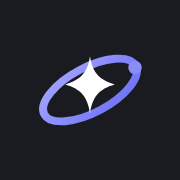
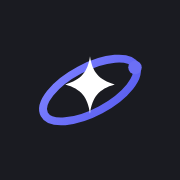
Add files via upload

Changed region(s): [[0.1944, 0.3056, 0.8056, 0.6944]]

diff --git a/index.html b/index.html
@@ -373,7 +373,7 @@ body{background:var(--bg)!important}
 
 <div class="login" id="login" hidden>
   <div class="box">
-    <svg class="logo" viewBox="0 0 128 128" aria-hidden="true"><defs><linearGradient id="lg2" x1="0" y1="0" x2="1" y2="1"><stop offset="0" stop-color="#A3A5FF"/><stop offset="1" stop-color="#6C6FF5"/></linearGradient></defs><rect width="128" height="128" rx="34" fill="#1A1B21"/><ellipse cx="64" cy="64" rx="46" ry="20" fill="none" stroke="url(#lg2)" stroke-width="7" transform="rotate(-28 64 64)"/><path d="M64 34c2 14 8 21 22 25-14 4-20 11-22 26-2-15-8-22-22-26 14-4 20-11 22-25z" fill="#fff"/><circle cx="104" cy="44" r="6" fill="#8A8CF8"/></svg>
+    <svg class="logo" viewBox="0 0 128 128" aria-hidden="true"><defs><linearGradient id="lg2" x1="0" y1="0" x2="1" y2="1"><stop offset="0" stop-color="#7C80FF"/><stop offset="1" stop-color="#5A5EF0"/></linearGradient></defs><rect width="128" height="128" rx="34" fill="#1A1B21"/><ellipse cx="64" cy="64" rx="46" ry="20" fill="none" stroke="url(#lg2)" stroke-width="7" transform="rotate(-28 64 64)"/><path d="M64 34c2 14 8 21 22 25-14 4-20 11-22 26-2-15-8-22-22-26 14-4 20-11 22-25z" fill="#fff"/><circle cx="104" cy="44" r="6" fill="#6C6FF5"/></svg>
     <h1>Nova <span>Resell</span></h1>
     <p style="margin:2px 0 6px"><span style="display:inline-block;background:#16a34a;color:#fff;border-radius:999px;padding:2px 9px;font-size:11px;font-weight:800;letter-spacing:.04em">GRATUIT</span> <small>pour le moment, sans carte bancaire</small></p>
     <p id="loginSub">Connecte-toi avec ton compte Nova : le même que dans l'extension sur ton PC.</p>
@@ -391,7 +391,7 @@ body{background:var(--bg)!important}
 <div class="app">
   <header class="hero">
     <div class="brand">
-      <svg viewBox="0 0 128 128" aria-hidden="true"><defs><linearGradient id="lg" x1="0" y1="0" x2="1" y2="1"><stop offset="0" stop-color="#A3A5FF"/><stop offset="1" stop-color="#6C6FF5"/></linearGradient></defs><rect width="128" height="128" rx="34" fill="#1A1B21"/><ellipse cx="64" cy="64" rx="46" ry="20" fill="none" stroke="url(#lg)" stroke-width="7" transform="rotate(-28 64 64)"/><path d="M64 34c2 14 8 21 22 25-14 4-20 11-22 26-2-15-8-22-22-26 14-4 20-11 22-25z" fill="#fff"/><circle cx="104" cy="44" r="6" fill="#8A8CF8"/></svg>
+      <svg viewBox="0 0 128 128" aria-hidden="true"><defs><linearGradient id="lg" x1="0" y1="0" x2="1" y2="1"><stop offset="0" stop-color="#7C80FF"/><stop offset="1" stop-color="#5A5EF0"/></linearGradient></defs><rect width="128" height="128" rx="34" fill="#1A1B21"/><ellipse cx="64" cy="64" rx="46" ry="20" fill="none" stroke="url(#lg)" stroke-width="7" transform="rotate(-28 64 64)"/><path d="M64 34c2 14 8 21 22 25-14 4-20 11-22 26-2-15-8-22-22-26 14-4 20-11 22-25z" fill="#fff"/><circle cx="104" cy="44" r="6" fill="#6C6FF5"/></svg>
       <h1>Nova <span>Resell</span></h1>
       <span class="pc" id="pcStatus"><i></i><span id="pcText">PC…</span></span>
       <button class="thm" id="rlBtn" aria-label="Recharger" title="Recharger"><svg viewBox="0 0 24 24" width="17" height="17" fill="none" stroke="currentColor" stroke-width="2" stroke-linecap="round" stroke-linejoin="round" aria-hidden="true"><path d="M21 12a9 9 0 1 1-2.64-6.36"/><path d="M21 3v6h-6"/></svg></button>

diff --git a/connexion.html b/connexion.html
@@ -29,7 +29,7 @@ footer { text-align: center; font-size: 12.5px; color: var(--muted); } footer a 
 </head>
 <body>
 <main>
-  <div class="brand"><svg viewBox="0 0 128 128" aria-hidden="true"><rect width="128" height="128" rx="34" fill="#1A1B21"/><ellipse cx="64" cy="64" rx="46" ry="20" fill="none" stroke="#8A8CF8" stroke-width="7" transform="rotate(-28 64 64)"/><path d="M64 34c2 14 8 21 22 25-14 4-20 11-22 26-2-15-8-22-22-26 14-4 20-11 22-25z" fill="#fff"/><circle cx="104" cy="44" r="6" fill="#8A8CF8"/></svg><b>Nova Resell</b><small>novaresell.github.io</small></div>
+  <div class="brand"><svg viewBox="0 0 128 128" aria-hidden="true"><rect width="128" height="128" rx="34" fill="#1A1B21"/><ellipse cx="64" cy="64" rx="46" ry="20" fill="none" stroke="#6C6FF5" stroke-width="7" transform="rotate(-28 64 64)"/><path d="M64 34c2 14 8 21 22 25-14 4-20 11-22 26-2-15-8-22-22-26 14-4 20-11 22-25z" fill="#fff"/><circle cx="104" cy="44" r="6" fill="#6C6FF5"/></svg><b>Nova Resell</b><small>novaresell.github.io</small></div>
 
   <!-- compte reconnu : il ne reste qu'à confirmer -->
   <form class="card" id="known" hidden autocomplete="on">
